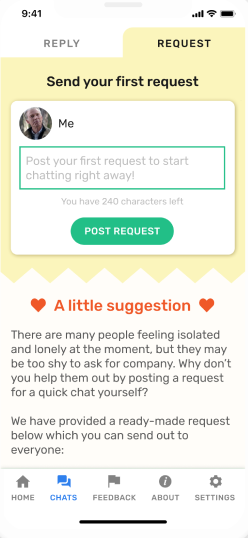
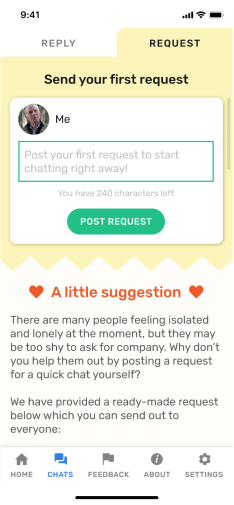
Fixed the images

diff --git a/src/components/Bloomd/section8/index.css.js b/src/components/Bloomd/section8/index.css.js
@@ -15,8 +15,7 @@ export const WrapperCss = styled.div`
     background-size: auto 100%;
 
     &:first-child {
-      background-image: url(${personPng}),
-        radial-gradient(1000px circle at 50% 0, #8a7db3, #595087);
+      background-image: url(${personPng}); /* radial-gradient(1000px circle at 50% 0, #8a7db3, #595087) */
       width: 40%;
     }
 

diff --git a/src/components/Bloomd/section4/index.css.js b/src/components/Bloomd/section4/index.css.js
@@ -99,7 +99,7 @@ export const ContentWrapperCss = styled.div`
 
   .center {
     img {
-      width: 96.25%;
+      width: 98%;
       height: auto;
     }
   }
